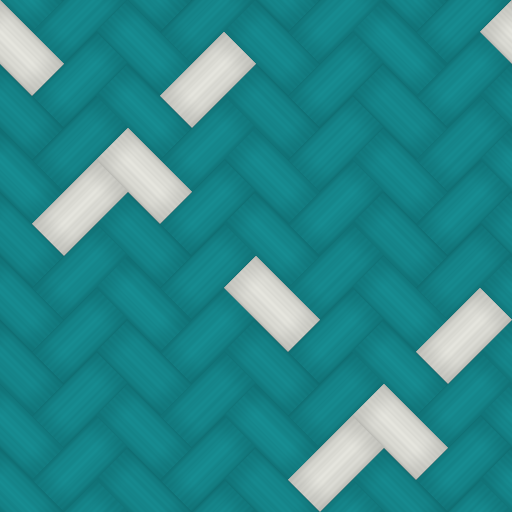
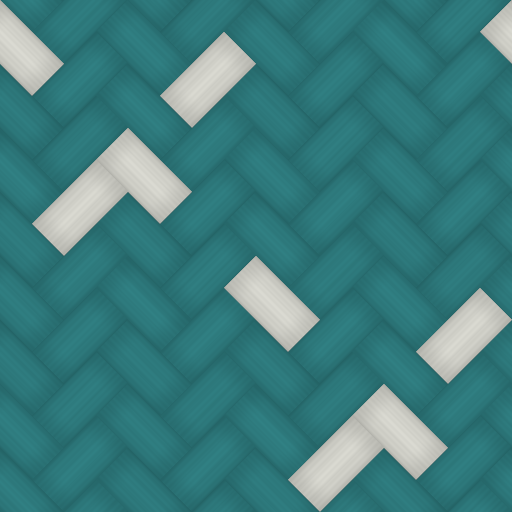
[data] Rope sets: dyed braid colours a little sun-faded; rope tiles rebaked

diff --git a/tools/liverybake/liverybake/ropes.py b/tools/liverybake/liverybake/ropes.py
@@ -17,14 +17,14 @@ CARRIERS = 8          # per direction
 SS = 2                # supersampling
 FUNCTIONS = ("mainsheet", "sheet", "kite_sheet", "halyard_main", "halyard_jib", "halyard_kite", "halyard_code", "control")
 DEFAULTS = {
-    "mainsheet": ("#cf5f1d", "#1f2b45"),
-    "sheet": ("#168a8f", "#e1e1da"),
-    "kite_sheet": ("#b02e6a", "#e1e1da"),
-    "halyard_main": ("#b81f24", "#e1e1da"),
-    "halyard_jib": ("#1f4fa8", "#e1e1da"),
-    "halyard_kite": ("#2a8a3e", "#e1e1da"),
-    "halyard_code": ("#d6aa1e", "#1d1e21"),
-    "control": ("#6b3fa0", "#e1e1da"),
+    "mainsheet": ("#b5652f", "#2a3348"),
+    "sheet": ("#2f7d80", "#d6d6ce"),
+    "kite_sheet": ("#97406a", "#d6d6ce"),
+    "halyard_main": ("#a2383a", "#d6d6ce"),
+    "halyard_jib": ("#355f98", "#d6d6ce"),
+    "halyard_kite": ("#3f7a4a", "#d6d6ce"),
+    "halyard_code": ("#bf9a42", "#2a2b2e"),
+    "control": ("#674f8c", "#d6d6ce"),
 }
 PATTERNS = ("fleck", "tracer", "twill", "solid")
 # relief: carrier crown height (m) and the typical rope circumference the tile wraps (for the normal map's scale)
